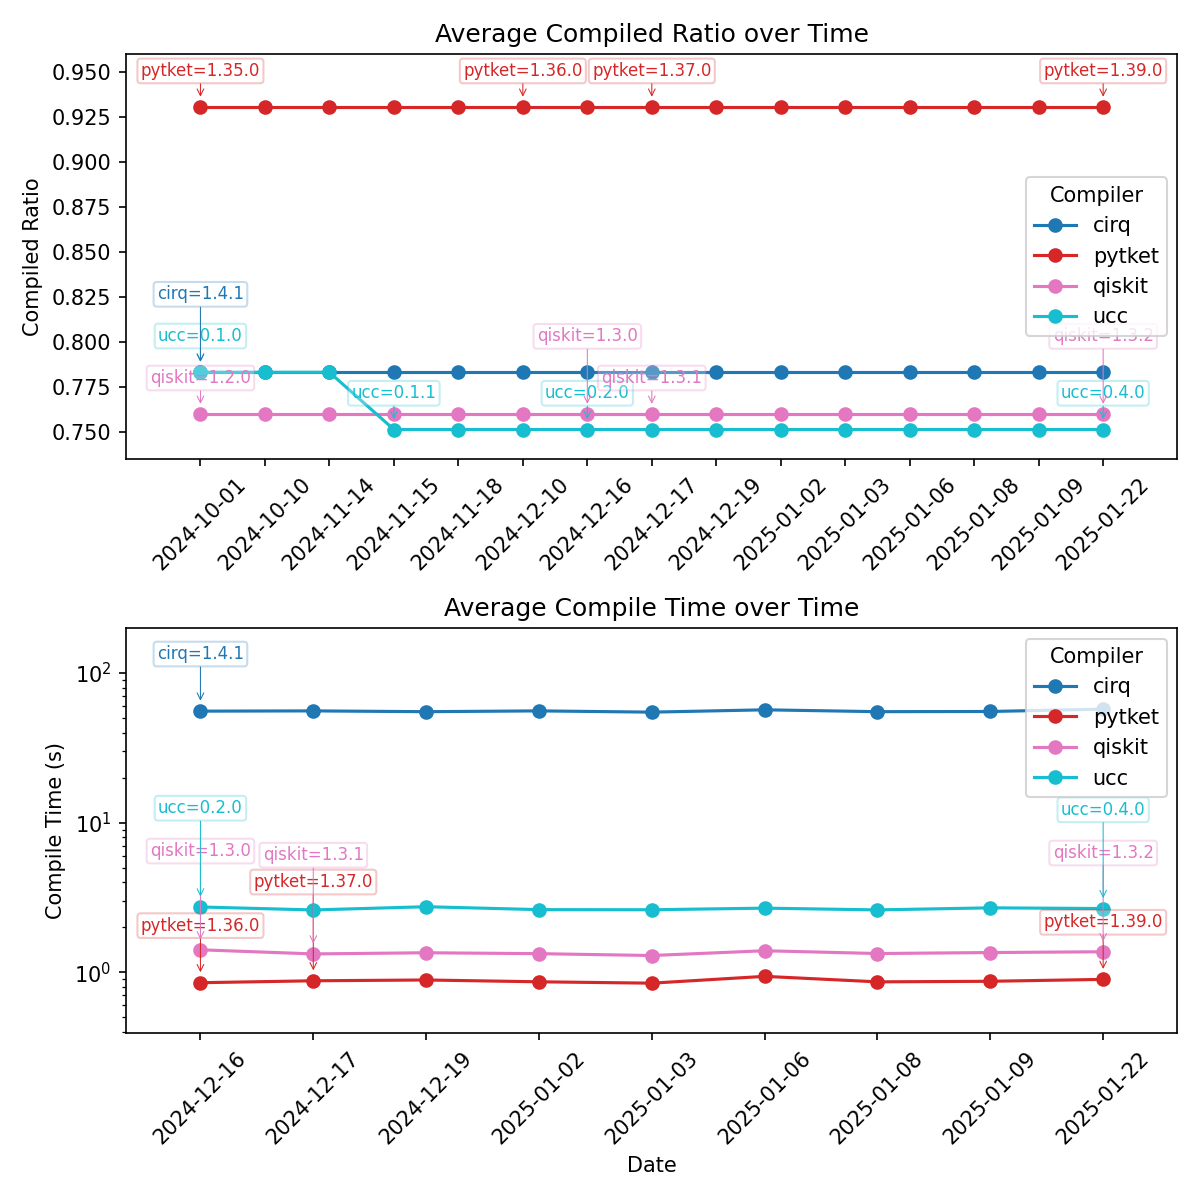
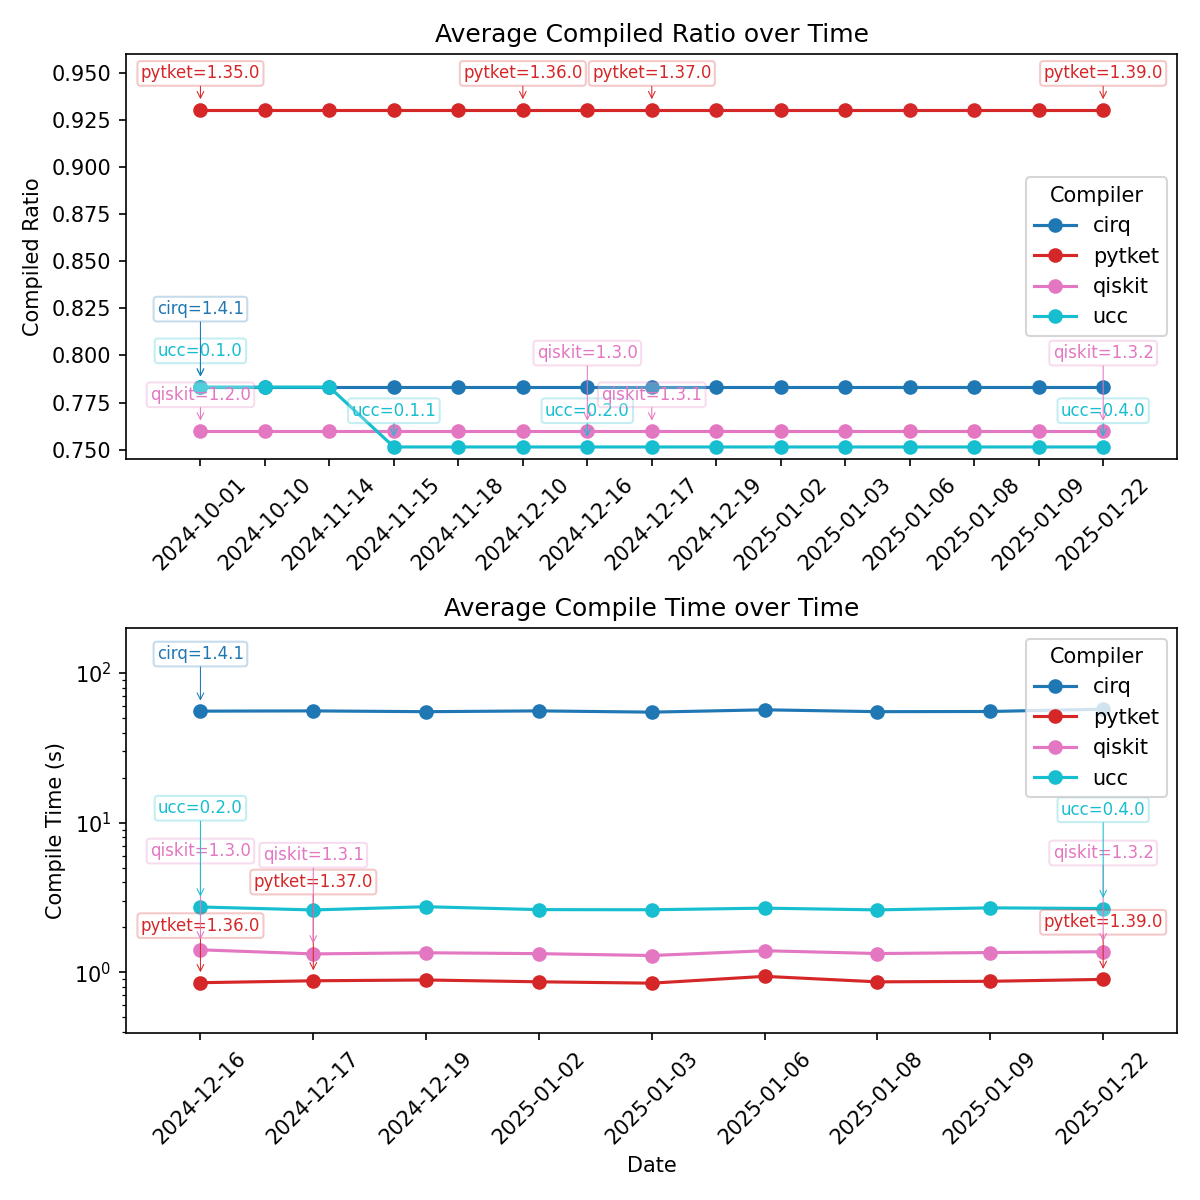
Adjust axes

Changed region(s): [[0.1233, 0.2158, 0.9558, 0.4008], [0.1233, 0.0308, 0.9558, 0.0925], [0.0308, 0.0617, 0.0925, 0.4008]]

diff --git a/benchmarks/scripts/plot_avg_benchmarks_over_time.py b/benchmarks/scripts/plot_avg_benchmarks_over_time.py
@@ -99,7 +99,7 @@ for date in avg_compiled_ratio["date"].unique():
                 increment=2,  # Vertical adjustment step
                 max_attempts=10,
             )
-            plt.pause(0.1)
+            # plt.pause(0.1)
             # Update the last seen version for this compiler
             last_version_seen[compiler] = current_version
     previous_bboxes = [] # Reset previous bboxes for next date            
@@ -108,7 +108,7 @@ adjust_axes_to_fit_labels(ax[0], x_scale=1.01, y_scale=1.05)
 
 ax[0].set_title("Average Compiled Ratio over Time")
 ax[0].set_ylabel("Compiled Ratio")
-ax[0].set_ylim(0.735, 0.96)
+ax[0].set_ylim(0.745, 0.96)
 # Expand axes to be slightly larger than data range
 ax[0].legend(title="Compiler")
 
